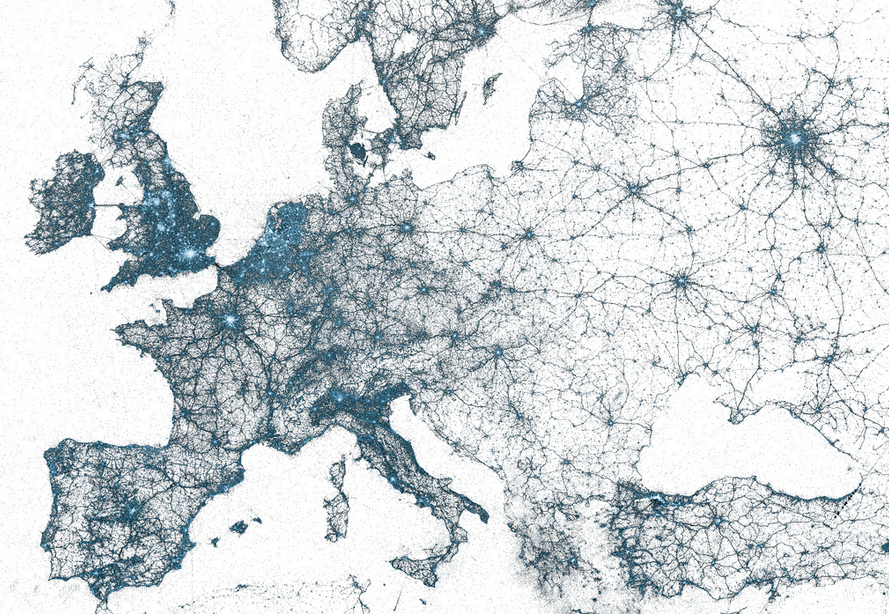
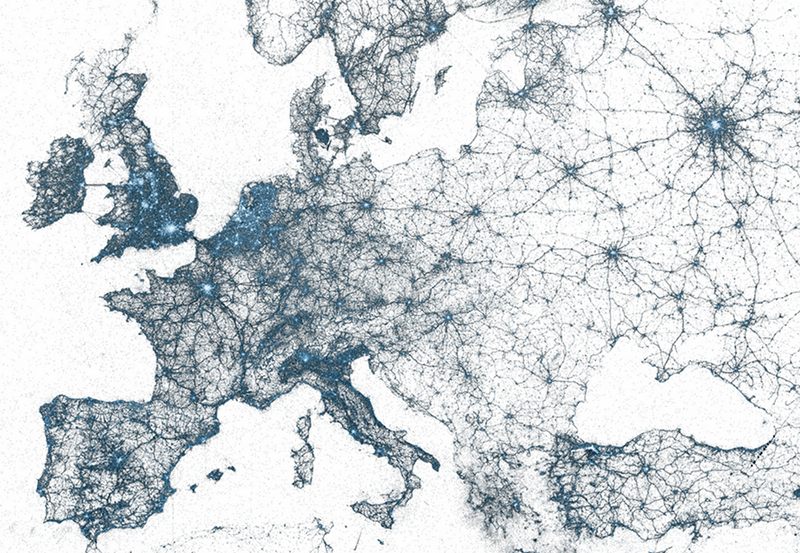
add jpg instead of png

diff --git a/index.html b/index.html
@@ -32,7 +32,7 @@
 </h1>
   </header>
   <ul>
-    <li><a href="http://twitter.github.io/interactive/sochi"><figure><div class="image" style="background-image: url(assets/sochi/1.png); "></div><figcaption>2014 Winter Olympics</figcaption></figure></a></li><li><a href="http://twitter.github.io/interactive/sotu2014"><figure><div class="image" style="background-image: url(assets/sotu/1.png); "></div><figcaption>State of the Union Address</figcaption></figure></a></li><li><a href="http://twitter.github.io/interactive/australiaday2014/"><figure><div class="image" style="background-image: url(assets/australiaday/1.png); "></div><figcaption>Australia Day</figcaption></figure></a></li><li><a href="http://twitter.github.io/interactive/newyear2014"><figure><div class="image" style="background-image: url(assets/ny2014/1.png); "></div><figcaption>New Year 2014</figcaption></figure></a></li><li><a href="http://twitter.github.io/interactive/philippines"><figure><div class="image" style="background-image: url(assets/philippines/1.png); "></div><figcaption>Philippines</figcaption></figure></a></li><li><a href="http://www.flickr.com/photos/m7r/11231398326/"><figure><div class="image" style="background-image: url(assets/mandela/1.png); "></div><figcaption>Mandela</figcaption></figure></a></li><li><a href="http://twitter.github.io/interactive/doctorwho"><figure><div class="image" style="background-image: url(assets/doctorwho/1.png); "></div><figcaption>Doctor Who</figcaption></figure></a></li><li><a href="http://www.youtube.com/watch?v=Bgu_OsA7qNQ#t=10m"><figure><div class="image" style="background-image: url(assets/laika/1.png); background-position: center center "></div><figcaption>Laika</figcaption></figure></a></li><li><a href="http://twitter.github.io/interactive/emmys2013"><figure><div class="image" style="background-image: url(assets/emmys/1.png); "></div><figcaption>Emmys</figcaption></figure></a></li><li><a href="https://blog.twitter.com/2013/behind-the-numbers-how-to-understand-big-moments-on-twitter"><figure><div class="image" style="background-image: url(assets/tpms/1.png); "></div><figcaption>Twitter's biggest moments</figcaption></figure></a></li><li><a href="http://twitter.github.io/interactive/andes"><figure><div class="image" style="background-image: url(assets/andes/1.png); "></div><figcaption>Andes</figcaption></figure></a></li><li><a href="https://blog.twitter.com/2013/the-geography-of-tweets"><figure><div class="image" style="background-image: url(assets/geography/1.png); "></div><figcaption>The Geography of Tweets</figcaption></figure></a></li><li><a href="https://uclfinal.twitter.com"><figure><div class="image" style="background-image: url(assets/uclfinal/1.png); "></div><figcaption>UEFA Champions League</figcaption></figure></a></li><li><a href="http://www.youtube.com/watch?v=01un0ORjQps"><figure><div class="image" style="background-image: url(assets/ipo/1.png); "></div><figcaption>IPO roadshow visuals</figcaption></figure></a></li><li><a href="https://blog.twitter.com/2013/celebrating-2013-global-town-square"><figure><div class="image" style="background-image: url(assets/ny2013/1.png); background-position: center center "></div><figcaption>New Year's Eve 2012</figcaption></figure></a></li><li><a href="https://elections.twitter.com/map"><figure><div class="image" style="background-image: url(assets/pem/1.png); "></div><figcaption>Political Engagement Map</figcaption></figure></a></li><li><a href="https://blog.twitter.com/2012/remembering-the-first-man-on-the-moon"><figure><div class="image" style="background-image: url(assets/armstrong/1.png); "></div><figcaption>Remembering the first man on the moon</figcaption></figure></a></li><li><a href="https://euro2012.twitter.com"><figure><div class="image" style="background-image: url(assets/euro2012/1.png); "></div><figcaption>EuroCup</figcaption></figure></a></li><li><a href="http://www.flickr.com/photos/twitteroffice/7420677428/in/photostream/"><figure><div class="image" style="background-image: url(assets/euro2012cheers/1.png); "></div><figcaption>Euro 2012 Cheers</figcaption></figure></a></li><li><a href="https://blog.twitter.com/2012/studying-rapidly-evolving-user-interests"><figure><div class="image" style="background-image: url(assets/sleeppatterns/1.png); "></div><figcaption>Sleep Patterns</figcaption></figure></a></li><li><a href="http://www.flickr.com/photos/twitteroffice/6219082960/in/set-72157633647745984"><figure><div class="image" style="background-image: url(assets/jobs/1.png); "></div><figcaption>Steve Jobs</figcaption></figure></a></li><li><a href="http://miguelrios.org/post/9338564551/spread-of-earthquake-related-tweets"><figure><div class="image" style="background-image: url(assets/earthquake2011/1.png); "></div><figcaption>Spread of earthquake Tweets</figcaption></figure></a></li><li><a href="https://blog.twitter.com/2011/global-pulse"><figure><div class="image" style="background-image: url(assets/japan/1.png); "></div><figcaption>Global Pulse</figcaption></figure></a></li><li><a href="http://www.flickr.com/photos/twitteroffice/5330389687/in/set-72157633647745984"><figure><div class="image" style="background-image: url(assets/ny2011/1.png); "></div><figcaption>New Year 2011</figcaption></figure></a></li><li><a href="https://blog.twitter.com/2010/2010-world-cup-global-conversation"><figure><div class="image" style="background-image: url(assets/wc2010/1.png); "></div><figcaption>World Cup 2010</figcaption></figure></a></li>
+    <li><a href="http://twitter.github.io/interactive/sochi"><figure><div class="image" style="background-image: url(assets/sochi/1.jpg); "></div><figcaption>2014 Winter Olympics</figcaption></figure></a></li><li><a href="http://twitter.github.io/interactive/sotu2014"><figure><div class="image" style="background-image: url(assets/sotu/1.jpg); "></div><figcaption>State of the Union Address</figcaption></figure></a></li><li><a href="http://twitter.github.io/interactive/australiaday2014/"><figure><div class="image" style="background-image: url(assets/australiaday/1.jpg); "></div><figcaption>Australia Day</figcaption></figure></a></li><li><a href="http://twitter.github.io/interactive/newyear2014"><figure><div class="image" style="background-image: url(assets/ny2014/1.jpg); "></div><figcaption>New Year 2014</figcaption></figure></a></li><li><a href="http://twitter.github.io/interactive/philippines"><figure><div class="image" style="background-image: url(assets/philippines/1.jpg); "></div><figcaption>Philippines</figcaption></figure></a></li><li><a href="http://www.flickr.com/photos/m7r/11231398326/"><figure><div class="image" style="background-image: url(assets/mandela/1.jpg); "></div><figcaption>Mandela</figcaption></figure></a></li><li><a href="http://twitter.github.io/interactive/doctorwho"><figure><div class="image" style="background-image: url(assets/doctorwho/1.jpg); "></div><figcaption>Doctor Who</figcaption></figure></a></li><li><a href="http://www.youtube.com/watch?v=Bgu_OsA7qNQ#t=10m"><figure><div class="image" style="background-image: url(assets/laika/1.jpg); background-position: center center "></div><figcaption>Laika</figcaption></figure></a></li><li><a href="http://twitter.github.io/interactive/emmys2013"><figure><div class="image" style="background-image: url(assets/emmys/1.jpg); "></div><figcaption>Emmys</figcaption></figure></a></li><li><a href="https://blog.twitter.com/2013/behind-the-numbers-how-to-understand-big-moments-on-twitter"><figure><div class="image" style="background-image: url(assets/tpms/1.jpg); "></div><figcaption>Twitter's biggest moments</figcaption></figure></a></li><li><a href="http://twitter.github.io/interactive/andes"><figure><div class="image" style="background-image: url(assets/andes/1.jpg); "></div><figcaption>Andes</figcaption></figure></a></li><li><a href="https://blog.twitter.com/2013/the-geography-of-tweets"><figure><div class="image" style="background-image: url(assets/geography/1.jpg); "></div><figcaption>The Geography of Tweets</figcaption></figure></a></li><li><a href="https://uclfinal.twitter.com"><figure><div class="image" style="background-image: url(assets/uclfinal/1.jpg); "></div><figcaption>UEFA Champions League</figcaption></figure></a></li><li><a href="http://www.youtube.com/watch?v=01un0ORjQps"><figure><div class="image" style="background-image: url(assets/ipo/1.jpg); "></div><figcaption>IPO roadshow visuals</figcaption></figure></a></li><li><a href="https://blog.twitter.com/2013/celebrating-2013-global-town-square"><figure><div class="image" style="background-image: url(assets/ny2013/1.jpg); background-position: center center "></div><figcaption>New Year's Eve 2012</figcaption></figure></a></li><li><a href="https://elections.twitter.com/map"><figure><div class="image" style="background-image: url(assets/pem/1.jpg); "></div><figcaption>Political Engagement Map</figcaption></figure></a></li><li><a href="https://blog.twitter.com/2012/remembering-the-first-man-on-the-moon"><figure><div class="image" style="background-image: url(assets/armstrong/1.jpg); "></div><figcaption>Remembering the first man on the moon</figcaption></figure></a></li><li><a href="https://euro2012.twitter.com"><figure><div class="image" style="background-image: url(assets/euro2012/1.jpg); "></div><figcaption>EuroCup</figcaption></figure></a></li><li><a href="http://www.flickr.com/photos/twitteroffice/7420677428/in/photostream/"><figure><div class="image" style="background-image: url(assets/euro2012cheers/1.jpg); "></div><figcaption>Euro 2012 Cheers</figcaption></figure></a></li><li><a href="https://blog.twitter.com/2012/studying-rapidly-evolving-user-interests"><figure><div class="image" style="background-image: url(assets/sleeppatterns/1.jpg); "></div><figcaption>Sleep Patterns</figcaption></figure></a></li><li><a href="http://www.flickr.com/photos/twitteroffice/6219082960/in/set-72157633647745984"><figure><div class="image" style="background-image: url(assets/jobs/1.jpg); "></div><figcaption>Steve Jobs</figcaption></figure></a></li><li><a href="http://miguelrios.org/post/9338564551/spread-of-earthquake-related-tweets"><figure><div class="image" style="background-image: url(assets/earthquake2011/1.jpg); "></div><figcaption>Spread of earthquake Tweets</figcaption></figure></a></li><li><a href="https://blog.twitter.com/2011/global-pulse"><figure><div class="image" style="background-image: url(assets/japan/1.jpg); "></div><figcaption>Global Pulse</figcaption></figure></a></li><li><a href="http://www.flickr.com/photos/twitteroffice/5330389687/in/set-72157633647745984"><figure><div class="image" style="background-image: url(assets/ny2011/1.jpg); "></div><figcaption>New Year 2011</figcaption></figure></a></li><li><a href="https://blog.twitter.com/2010/2010-world-cup-global-conversation"><figure><div class="image" style="background-image: url(assets/wc2010/1.jpg); "></div><figcaption>World Cup 2010</figcaption></figure></a></li>
   </ul>
 </section>
 
